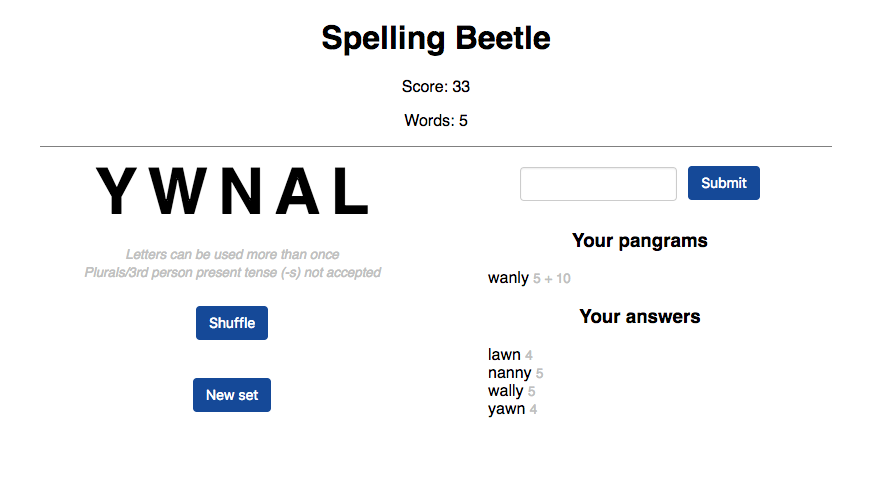
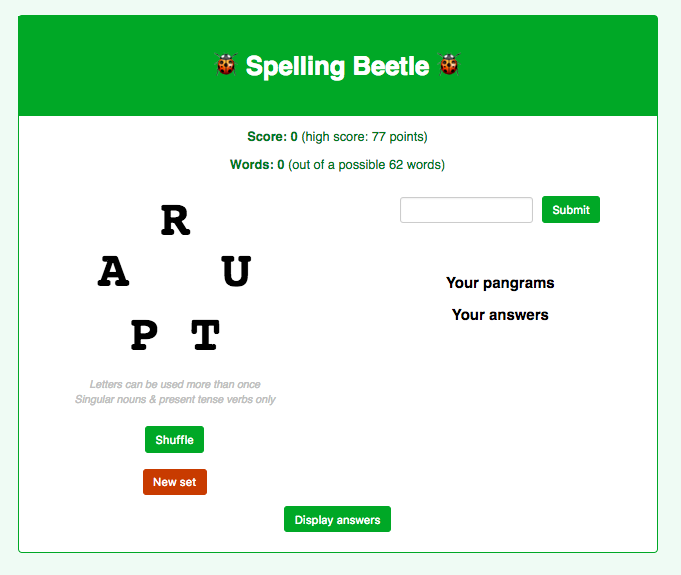
Colorful UI, documentation in README and todo

diff --git a/spellingbeetleapp/src/App.css b/spellingbeetleapp/src/App.css
@@ -1,6 +1,19 @@
 body {
+  background-color: #F1FAF4;
+}
+
+a {
+  color:#009F33;
+}
+
+a:hover {
+  color:#007526;
+}
+
+#root {
   max-width: 800px;
-  margin: 0 auto;
+  margin: 20px auto;
+  background-color: white;
 }
 
 .hidden {
@@ -33,6 +46,10 @@ body {
 }
 
 #headercomponent {
+  padding: 20px 0; 
+  margin: 0;
+  background-color: #009F33;
+  color: #fff;
 }
 
 #headercomponent #rules ul {
@@ -41,7 +58,8 @@ body {
 }
 
 #userscorecomponent {
-  border-bottom:1px solid gray;
+  /*border-bottom:1px solid gray;*/
+  color: #007526;
 }
 
 #userscorecomponent #score {
@@ -55,6 +73,7 @@ body {
 #letterscomponent {
   width:48%;
   float:left;
+  min-width: 300px;
 }
 
 #letterscomponent #letterscontainer {
@@ -105,13 +124,20 @@ body {
 }
 
 #letterscomponent #actions #newset {
-  
+  background-color: #B94A20;
+  border-color:#B94A20;
+}
+
+#letterscomponent #actions #newset:hover {
+  background-color: #9B3A16;
+  border-color:#9B3A16;
 }
 
 #wordscomponent {
   width:48%;
   float:right;
   min-height: 300px;
+  min-width: 300px;
 }
 
 #wordscomponent ul {
@@ -153,6 +179,9 @@ body {
 #answerscomponent #answerspane {
   display:none;
 }
+#answerscomponent button {
+  margin-bottom:20px;
+}
 #answerscomponent ul {
   text-align: left;
   columns: 4;
@@ -162,6 +191,8 @@ body {
 
 .App {
   text-align: center;
+  border:1px solid #009F33;
+  border-radius: 5px;
 }
 
 .App-logo {
@@ -228,8 +259,8 @@ button, input[type="submit"] {
 
 button, input[type="submit"] {
     color: #ffffff;
-  background-color: #214f94;
-  border-color: #214f94;
+  background-color: #009F33;
+  border-color: #009F33;
 }
 
 button:hover,
@@ -240,8 +271,8 @@ input[type="submit"]:focus,
 input[type="submit"]:active
 {
   color: #ffffff;
-  background-color: #175fca;
-  border-color: #175fca;
+  background-color: #007526;
+  border-color: #007526;
 }
 
 small {

diff --git a/spellingbeetleapp/src/components/Header.js b/spellingbeetleapp/src/components/Header.js
@@ -10,7 +10,7 @@ class Header extends Component {
     return (
       <div className="component" id="headercomponent">
         <p className="componentname">Header</p>
-      	<h1>Spelling Beetle</h1>
+      	<h1><span role="img" aria-label="ladybug">🐞</span> Spelling Beetle <span role="img" aria-label="ladybug">🐞</span></h1>
       	{/*
       	<div id="rules">
       		<button onClick={() => {this.displayRules()}}>Rules</button>

diff --git a/spellingbeetleapp/src/components/Answers.js b/spellingbeetleapp/src/components/Answers.js
@@ -2,16 +2,6 @@ import React, { Component } from 'react';
 
 class Answers extends Component {
 
-  constructor() {
-    super();
-  }
-
-  dictLink() {
-    return ("https://www.merriam-webster.com/dictionary/" + "yes")
-  }
-  //        <li><a href={this.dictLink()}>yes</a></li>
-
-
   render() {
     return (
       <div className="component" id="answerscomponent" >

diff --git a/README.md b/README.md
@@ -1,38 +1,69 @@
 # About this project 
 
-![in progress](https://img.shields.io/badge/Status-In%20progress-yellowgreen.svg)
-
-I love the NYT's [Spelling Bee](https://www.nytimes.com/puzzles/spelling-bee) game so much that I wanted to make a game I could practice on. I call it **Spelling Beetle**. 
+I love the NYT's [Spelling Bee](https://www.nytimes.com/puzzles/spelling-bee) word jumble game so much that I wanted to make a game I could practice on as a final project for General Assembly's JavaScript Development Course. I call my game **Spelling Beetle**. 
 
 ![Screenshot](screenshot.png)
 
 ## Project deliverables
 JavaScript front end that:
-- randomly chooses a pangram word set (done)
-- takes input (done)
-- evaluates answers (done)
-- scores user progress (done)
+- randomly chooses a pangram word jumble problem
+- takes user input
+- evaluates answers
+- scores user progress
 - looks pretty
+
+### Technologies used
+- React.js, a library that enables a UI that updates automatically 
+- Python script to create word list
+
+### Approach
+#### General
+Most state variables and functions are stored in App.js and passed on to multiple components. State variables include data from the JSON file (such as valid answers) and user data (such as submitted answers). 
+
+#### Detailed 
+First, I made a wireframe and identified the areas of the page that would later become components. I wrote pseudocode that explained what would happen when the page loaded and when a user submitted a guess. I made **todo.md** to prioritize features and keep track of my progress.
+
+I made the JSON data file (see *Make word lists* section below) using a Python script and a large list of words. The structure of the JSON file is inspired by (yet different from) the NYT Spelling Bee game. 
+
+Then I created a new React app and set up the components I made. I took care of the easy things first, like making buttons and headers. Then I tackled loading in and displaying the JSON data, which was stored within the app at first. The letters, answers, and pangrams are stored as state variables. The chosen word set was hard-coded at first, then randomized later. Once the letters were appearing on the page, I consulted the React documentation to figure out how to accept and store user input, which ended up being easier than expected. 
+
+I wrote a function called evaluateWord() that compared user input to the list of valid answers stored in the JSON data file. Finally, I stored the JSON data file remotely in a different online location and wrote code to treat this remote JSON file as an API, using the React documentation. Once that was finished, the bare minimum of the game was complete. 
+
+Bells and whistles included shuffling letters, getting a new randomly-chosen word set, displaying user score, displaying a high score, toggling open answers, and linking each answer to a dictionary page.
+
+All told, I built the MVP in about 5 hours and spent about 12 hours total on the project, including making the word lists. 
+
+## Wireframe
+
+![Wireframe](wireframe.jpg)
+
+### Reflections 
+- React is easier than expected to work with. It helped to build Barkstagram in class to understand how components and state variables worked. 
+- However, React is less forgiving than something like jQuery. Any error broke the page (since I didn't encode any kind of error handling). Some errors/warnings had very understandable error messages that showed up in the console. I could not resolve other errors, like "Cannot read property 'bind' of undefined," so instead I worked around them. 
+- I wanted to incorporate some jQuery-like things, such as toggling open the answers pane, but a 5-second perusal of Google search results for "using jQuery in React" made me rethink using 2 libraries at once. So I coded the toggling as a function in React. 
+- I pass so many state variables on to multiple components that I felt this might not be the right approach — should have used fewer components, maybe? But it works as is. 
+- Auto-rendering on the page is AMAZING. As soon as a state variable is changed, the page display updates. No need to have a database to store user input. 
 	
 ### Future features
-- Show/hide answers
+- Show/hide answers (done)
+- Add feature to display definitions, so that you can see what bonkers-sounding words like 'hobbinoll' and 'waubeen' mean  (done)
 - Add 6-, 7-, and 8-letter pangram word set choices
-- Add feature to display definitions, so that you can see what bonkers-sounding words like 'hobbinoll' and 'waubeen' mean
 - Rank pangram difficulty according to word frequency
+- Error handling
+- Make word jumble JSON data into an API
 
 ---
 
-### Make word lists yourself
-Start with a list of words. I used [NLTK's 200k word list](http://www.nltk.org/).
+### Making word lists
+I used [NLTK's 200k word list](http://www.nltk.org/) as my starter list of words. It's harder than you think to find an acceptable list of words, so somewhat obscure words like *blini* are included but non-words like *mpeg* are not. Moreover, including super obscure words like *poroporo* will make some users feel frustrated, especially if the only pangram is super obscure. Anyway, the NLTK list is the best I've found so far, but it does lean toward the obscure. 
 
-In your fave text editing program: 
-1. Strip out words shorter than 4 letters long
+To make your own word jumble set in a text editing program... 
+1. Strip out words shorter than *n* letters long, depending on your rules (I chose 4) 
 1. Strip out words with punctuation 
-1. Strip out words beginning with a capital letter
-1. Strip out acronyms (might have been accomplished by previous step)
-1. Optional: Strip out words that contain 's' (this seems to be the NYT's approach, so that word jumble answers are never boring lists of singular/plural forms
+1. Strip out words beginning with a capital letter (proper nouns and acronyms)
+1. Optional: Strip out words that contain 's' (this seems to be the NYT's approach, so that word jumble answers are never boring lists of singular/plural forms — I kept S words because the NLTK list does not include plurals)
 
-Then run your .txt file through **listmaker.py**, which will generate a .json file with *n*-letter-long pangrams and all possible answers to the word jumble. 
+Then run your .txt file through **listmaker.py**, which will generate a .json file with *m*-letter-long pangrams and all possible answers to the word jumble. 
 
 Sample output: 
 ```
@@ -43,8 +74,4 @@ wordSet = [
 	"validAnswers": ["eker", "eyer", ... "yerk"]
 	},
 ]
-```
-
-## Wireframe
-
-![Wireframe](wireframe.jpg)
+``1

diff --git a/todo.md b/todo.md
@@ -1,12 +1,16 @@
 # To do
 
-Note: assumption for word data: Answers does not include Pangrams
 
 ## For MVP
 - Re-do word data files: there are lots of words that are way obscure. Need 6, 7, 8 letter word sets.
+- Treat remote JSON file as API - done
+- Load one word set from JSON file into UI - done
 - Randomly choose a word set with each page refresh - done
 - Hide/show rules and answers (jQuery?)  - done
-
+- Takes user input  - done
+- Evaluates answers  - done
+- Scores user progress  - done
+- Looks pretty  - done
 
 ## With more time
 - Happy alert when high score is achieved
@@ -14,12 +18,11 @@ Note: assumption for word data: Answers does not include Pangrams
 - In the Answers pane, mark the words that the user got
 - Allow choice of 5, 6, 7, 8 letter word pangrams (change New Set button)
 - Pick one special letter (this will need to happen at the data level, then need to revise button and add a Js function)
-- Exclude very offensive words from data
+- Exclude very offensive words from data - sort of done, but need to work from a precompiled list
+- Make JSON data into a "real" API
+- Put the app online! 
 
 # Challenges solved
 - How to load the letters and shuffle them? - Initialize a state variable containing an array of validLetters. In App.js, define a function called shuffleLetters() and pass it to the Letters.js component so you can shuffle them there. This function uses setState to change the state variable validLetters.
 
-
-# Reflections 
-- Seems like App.js contains all the good stuff, and the components only display the HTML. No extra functions in components. App.js handles all state variables and all other functions, and all of these get passed down to the components. 
-- Auto-rendering on the page is AMAZING. As soon as a state variable is changed, the page display updates.
+Note to self, Answers does not include Pangrams
